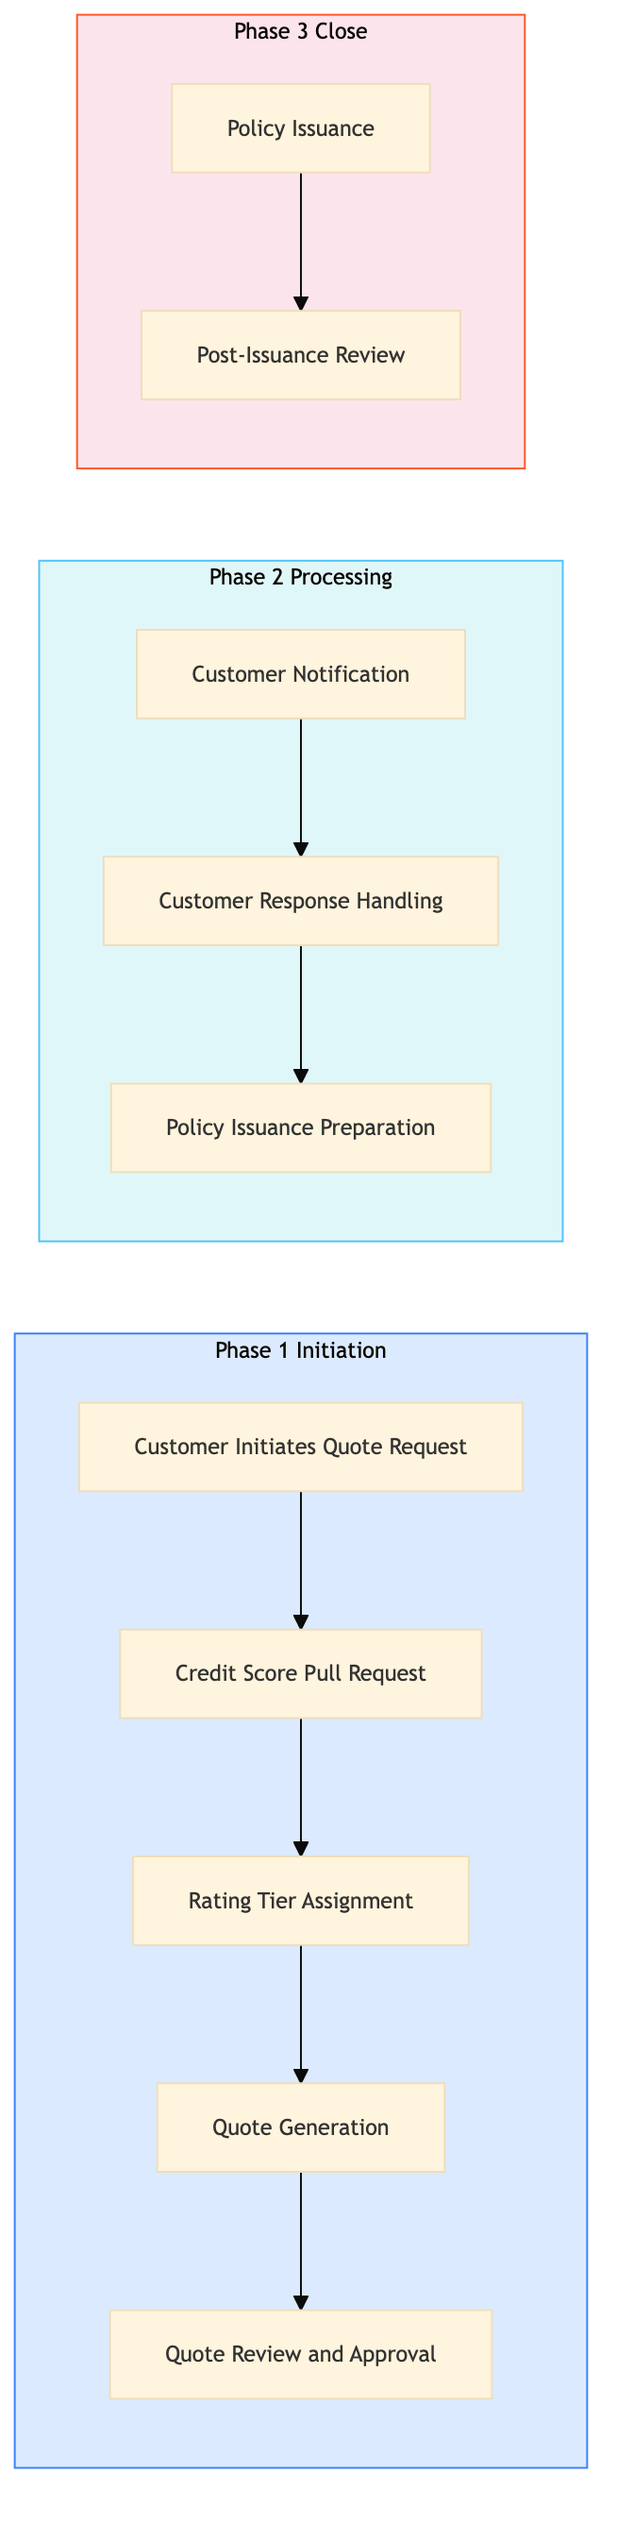
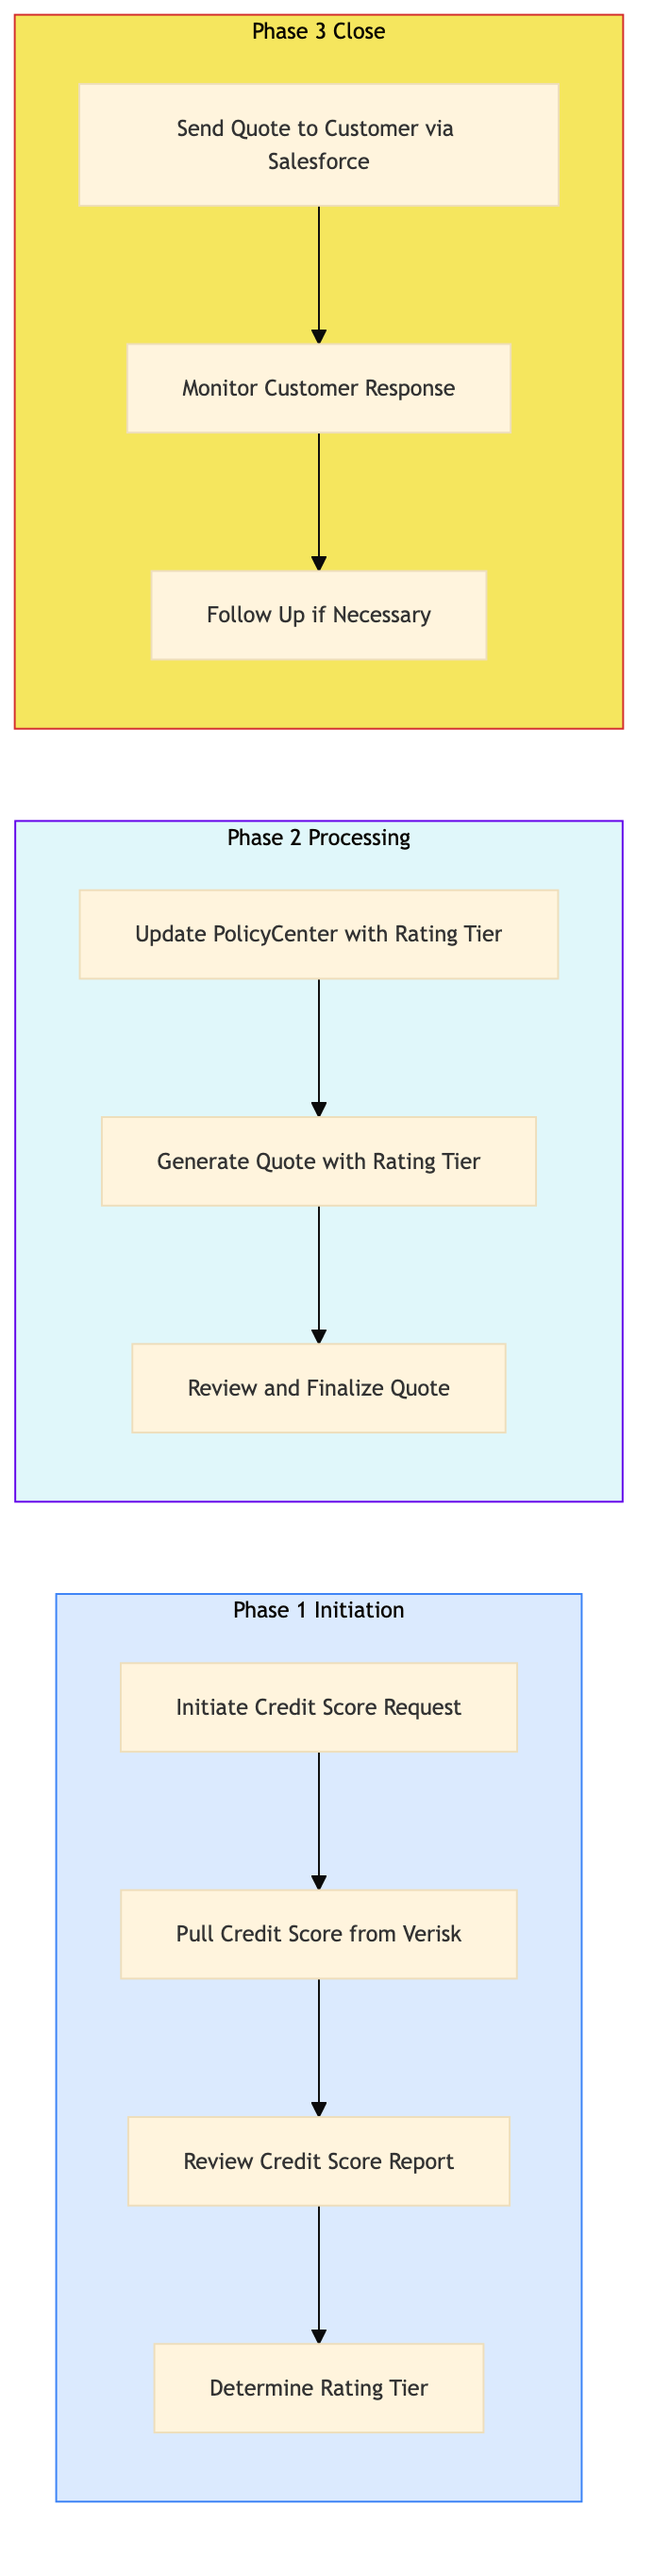
feat: add AAA-IN-QU-04 — Credit Score Pull and Rating Tier Assignment

diff --git a/aaa-insurance/insurance-quoting/aaa-in-qu-04.html b/aaa-insurance/insurance-quoting/aaa-in-qu-04.html
@@ -23,40 +23,16 @@
     <div class="nav-l2-group">
       <a class="nav-l2-title" href="../../shared-membership/membership-enrolment/index.html">Membership Enrolment & Sales</a>
       <div class="nav-l3-list">
-        <a class="nav-l3" href="../../shared-membership/membership-enrolment/shared-mb-en-01.html">SHARED-MB-EN-01 &mdash; New Member Walk-In Enrolment (Branch)</a>
-        <a class="nav-l3" href="../../shared-membership/membership-enrolment/shared-mb-en-02.html">SHARED-MB-EN-02 &mdash; Online Membership Self-Enrolment (Web/Ap</a>
-        <a class="nav-l3" href="../../shared-membership/membership-enrolment/shared-mb-en-03.html">SHARED-MB-EN-03 &mdash; Phone Enrolment via Contact Centre</a>
-        <a class="nav-l3" href="../../shared-membership/membership-enrolment/shared-mb-en-04.html">SHARED-MB-EN-04 &mdash; Affiliate and Employer Group Enrolment</a>
-        <a class="nav-l3" href="../../shared-membership/membership-enrolment/shared-mb-en-05.html">SHARED-MB-EN-05 &mdash; Membership Tier Selection and Upsell</a>
-        <a class="nav-l3" href="../../shared-membership/membership-enrolment/shared-mb-en-06.html">SHARED-MB-EN-06 &mdash; Payment Processing and First-Year Billin</a>
-        <a class="nav-l3" href="../../shared-membership/membership-enrolment/shared-mb-en-07.html">SHARED-MB-EN-07 &mdash; Welcome Kit and Digital Card Issuance</a>
-        <a class="nav-l3" href="../../shared-membership/membership-enrolment/shared-mb-en-08.html">SHARED-MB-EN-08 &mdash; Duplicate Member Detection and Merge</a>
       </div>
     </div>
     <div class="nav-l2-group">
       <a class="nav-l2-title" href="../../shared-membership/membership-renewal/index.html">Membership Renewal & Retention</a>
       <div class="nav-l3-list">
-        <a class="nav-l3" href="../../shared-membership/membership-renewal/shared-mb-rn-01.html">SHARED-MB-RN-01 &mdash; Annual Renewal Notice Generation and Dis</a>
-        <a class="nav-l3" href="../../shared-membership/membership-renewal/shared-mb-rn-02.html">SHARED-MB-RN-02 &mdash; Auto-Renewal Processing (Credit Card on </a>
-        <a class="nav-l3" href="../../shared-membership/membership-renewal/shared-mb-rn-03.html">SHARED-MB-RN-03 &mdash; Lapsed Member Reinstatement Campaign</a>
-        <a class="nav-l3" href="../../shared-membership/membership-renewal/shared-mb-rn-04.html">SHARED-MB-RN-04 &mdash; Membership Upgrade and Tier Change Proce</a>
-        <a class="nav-l3" href="../../shared-membership/membership-renewal/shared-mb-rn-05.html">SHARED-MB-RN-05 &mdash; Associate and Household Member Add-On Pr</a>
-        <a class="nav-l3" href="../../shared-membership/membership-renewal/shared-mb-rn-06.html">SHARED-MB-RN-06 &mdash; Cancellation Request Handling and Save O</a>
-        <a class="nav-l3" href="../../shared-membership/membership-renewal/shared-mb-rn-07.html">SHARED-MB-RN-07 &mdash; Renewal Rate Review and Pricing Update</a>
-        <a class="nav-l3" href="../../shared-membership/membership-renewal/shared-mb-rn-08.html">SHARED-MB-RN-08 &mdash; Membership Winback Campaign (12-36 Month</a>
       </div>
     </div>
     <div class="nav-l2-group">
       <a class="nav-l2-title" href="../../shared-membership/member-services/index.html">Member Services & Benefits</a>
       <div class="nav-l3-list">
-        <a class="nav-l3" href="../../shared-membership/member-services/shared-mb-sv-01.html">SHARED-MB-SV-01 &mdash; Member Discount Partner Redemption</a>
-        <a class="nav-l3" href="../../shared-membership/member-services/shared-mb-sv-02.html">SHARED-MB-SV-02 &mdash; Passport Photo Service Delivery (Branch)</a>
-        <a class="nav-l3" href="../../shared-membership/member-services/shared-mb-sv-03.html">SHARED-MB-SV-03 &mdash; International Driving Permit (IDP) Proce</a>
-        <a class="nav-l3" href="../../shared-membership/member-services/shared-mb-sv-04.html">SHARED-MB-SV-04 &mdash; Notary and Document Authentication Servi</a>
-        <a class="nav-l3" href="../../shared-membership/member-services/shared-mb-sv-05.html">SHARED-MB-SV-05 &mdash; Member Portal Profile and Preferences Ma</a>
-        <a class="nav-l3" href="../../shared-membership/member-services/shared-mb-sv-06.html">SHARED-MB-SV-06 &mdash; Lost and Stolen Membership Card Replacem</a>
-        <a class="nav-l3" href="../../shared-membership/member-services/shared-mb-sv-07.html">SHARED-MB-SV-07 &mdash; Member Data Privacy Request (CCPA and PI</a>
-        <a class="nav-l3" href="../../shared-membership/member-services/shared-mb-sv-08.html">SHARED-MB-SV-08 &mdash; Member Satisfaction Survey and NPS Track</a>
       </div>
     </div>
   </div>
@@ -281,7 +257,7 @@
           <span class="pid-badge org-badge-aaa">AAA</span>
           AAA-IN-QU-04 &mdash; Credit Score Pull and Rating Tier Assignment
         </h1>
-        <p>This process involves pulling credit scores and assigning rating tiers for AAA Northeast insurance quotes.</p>
+        <p>This process involves pulling a credit score and assigning a rating tier for AAA Northeast insurance quotes. It ensures accurate risk assessment and pricing.</p>
       </div>
 
       <!-- BPMN Diagram -->
@@ -307,10 +283,10 @@
             <tr><th>L1 Domain</th><td>AAA Insurance</td></tr>
             <tr><th>L2 Process</th><td>Quoting & Underwriting</td></tr>
             <tr><th>L3 Name</th><td>Credit Score Pull and Rating Tier Assignment</td></tr>
-            <tr><th>Trigger</th><td>A customer initiates a quote request through the AAA App or Salesforce portal.</td></tr>
-            <tr><th>Outcome</th><td>Successful completion results in a personalized quote with an assigned rating tier based on the customer's credit score.</td></tr>
-            <tr><th>Org Notes</th><td>AAA Northeast uses Verisk ISO ratings and Guidewire Cloud for underwriting, while CAA may use different systems and methodologies.</td></tr>
-            <tr><th>Systems</th><td><span class="sys-tag guidewire">Guidewire PolicyCenter</span> <span class="sys-tag verisk">Verisk ISO Rating</span> <span class="sys-tag salesforce">Salesforce</span> <span class="sys-tag aaa-app">AAA App</span></td></tr>
+            <tr><th>Trigger</th><td>Initiated by a Licensed Insurance Agent upon customer inquiry or quote request.</td></tr>
+            <tr><th>Outcome</th><td>Successful completion results in the assignment of a credit-based rating tier, which influences premium calculation and policy terms.</td></tr>
+            <tr><th>Org Notes</th><td>AAA Northeast may have specific underwriting guidelines that differ from other AAA regions, impacting the credit score pull and rating tier assignment process.</td></tr>
+            <tr><th>Systems</th><td><span class="sys-tag guidewire">Guidewire PolicyCenter</span> <span class="sys-tag verisk">Verisk ISO rating</span> <span class="sys-tag salesforce">Salesforce</span></td></tr>
           </table>
         </div>
       </div>
@@ -331,123 +307,123 @@
               <tbody>
         <tr>
           <td class="step-num">1.1</td>
-          <td>Customer Initiates Quote Request</td>
+          <td>Initiate Credit Score Request</td>
           <td>Licensed Insurance Agent</td>
-          <td><span class="sys-tag salesforce">AAA App / Salesforce</span></td>
-          <td>Customer's personal information and vehicle details</td>
-          <td>Quote request in Guidewire PolicyCenter</td>
-          <td>Time to initiate quote < 2 minutes</td>
-          <td>High volume of requests during peak times</td>
+          <td><span class="sys-tag guidewire">Guidewire PolicyCenter</span></td>
+          <td>Customer application data</td>
+          <td>Credit score request generated</td>
+          <td>Time to initiate credit score request < 5 minutes</td>
+          <td>Delays in initiating the credit score request can lead to longer quote processing times.</td>
           <td>N</td>
           <td><span class="exception-y">Y</span></td>
         </tr>
         <tr>
           <td class="step-num">1.2</td>
-          <td>Credit Score Pull Request</td>
-          <td>Underwriter</td>
-          <td><span class="sys-tag verisk">Verisk ISO Rating</span></td>
-          <td>Customer's personal information</td>
+          <td>Pull Credit Score from Verisk</td>
+          <td>Credit Analyst</td>
+          <td><span class="sys-tag verisk">Verisk ISO rating</span></td>
+          <td>Customer application data</td>
           <td>Credit score report</td>
-          <td>Credit score pull time < 5 minutes</td>
-          <td>Inaccurate or delayed credit scores</td>
+          <td>Credit score retrieval time < 30 seconds</td>
+          <td>Inaccurate or delayed credit scores can affect underwriting decisions.</td>
           <td>N</td>
           <td><span class="exception-y">Y</span></td>
         </tr>
         <tr>
           <td class="step-num">1.3</td>
-          <td>Rating Tier Assignment</td>
-          <td>Underwriter</td>
+          <td>Review Credit Score Report</td>
+          <td>Credit Analyst</td>
           <td><span class="sys-tag guidewire">Guidewire PolicyCenter</span></td>
           <td>Credit score report</td>
-          <td>Assigned rating tier</td>
-          <td>Time to assign rating < 2 minutes</td>
-          <td>Manual adjustments for complex cases</td>
+          <td>Credit score analysis</td>
+          <td>Time to review credit score < 2 minutes</td>
+          <td>Misinterpretation of credit scores can lead to incorrect rating tiers.</td>
           <td>N</td>
           <td><span class="exception-y">Y</span></td>
         </tr>
         <tr>
           <td class="step-num">1.4</td>
-          <td>Quote Generation</td>
-          <td>Underwriter</td>
+          <td>Determine Rating Tier</td>
+          <td>Credit Analyst</td>
           <td><span class="sys-tag guidewire">Guidewire PolicyCenter</span></td>
-          <td>Assigned rating tier and customer details</td>
-          <td>Personalized insurance quote</td>
-          <td>Time to generate quote < 3 minutes</td>
-          <td>Inconsistent pricing across different scenarios</td>
+          <td>Credit score analysis</td>
+          <td>Rating tier assignment</td>
+          <td>Accuracy of rating tier assignment > 95%</td>
+          <td>Incorrect rating tiers can impact customer satisfaction and profitability.</td>
           <td>N</td>
           <td><span class="exception-y">Y</span></td>
         </tr>
         <tr>
-          <td class="step-num">1.5</td>
-          <td>Quote Review and Approval</td>
-          <td>Senior Underwriter</td>
-          <td><span class="sys-tag guidewire">Guidewire PolicyCenter</span></td>
-          <td>Personalized insurance quote</td>
-          <td>Approved quote</td>
-          <td>Time to review and approve < 10 minutes</td>
-          <td>High rejection rates due to complex cases</td>
-          <td><span class="decision-y">Y</span></td>
-          <td>N</td>
-        </tr>
-        <tr>
           <td class="step-num">2.1</td>
-          <td>Customer Notification</td>
-          <td>Licensed Insurance Agent</td>
-          <td><span class="sys-tag salesforce">Salesforce / AAA App</span></td>
-          <td>Approved quote</td>
-          <td>Notification sent to customer</td>
-          <td>Time to notify < 5 minutes</td>
-          <td>Customer notification failures</td>
+          <td>Update PolicyCenter with Rating Tier</td>
+          <td>Credit Analyst</td>
+          <td><span class="sys-tag guidewire">Guidewire PolicyCenter</span></td>
+          <td>Rating tier assignment</td>
+          <td>Updated policy record</td>
+          <td>Time to update PolicyCenter < 2 minutes</td>
+          <td>Delays in updating the system can cause discrepancies in quote generation.</td>
           <td>N</td>
           <td><span class="exception-y">Y</span></td>
         </tr>
         <tr>
           <td class="step-num">2.2</td>
-          <td>Customer Response Handling</td>
+          <td>Generate Quote with Rating Tier</td>
           <td>Licensed Insurance Agent</td>
-          <td><span class="sys-tag salesforce">Salesforce / AAA App</span></td>
-          <td>Customer's response to the quote</td>
-          <td>Response recorded in Salesforce</td>
-          <td>Time to handle response < 2 minutes</td>
-          <td>High volume of customer inquiries</td>
-          <td><span class="decision-y">Y</span></td>
+          <td><span class="sys-tag guidewire">Guidewire PolicyCenter</span></td>
+          <td>Updated policy record</td>
+          <td>Insurance quote</td>
+          <td>Time to generate quote < 5 minutes</td>
+          <td>Slow quote generation can lead to customer dissatisfaction.</td>
           <td>N</td>
+          <td><span class="exception-y">Y</span></td>
         </tr>
         <tr>
           <td class="step-num">2.3</td>
-          <td>Policy Issuance Preparation</td>
-          <td>Underwriter</td>
+          <td>Review and Finalize Quote</td>
+          <td>Licensed Insurance Agent</td>
           <td><span class="sys-tag guidewire">Guidewire PolicyCenter</span></td>
-          <td>Approved quote and customer response</td>
-          <td>Policy issuance preparation document</td>
-          <td>Time to prepare < 5 minutes</td>
-          <td>Errors in policy documents</td>
+          <td>Insurance quote</td>
+          <td>Finalized insurance quote</td>
+          <td>Time to review and finalize quote < 1 minute</td>
+          <td>Errors in the finalized quote can lead to customer complaints.</td>
           <td>N</td>
           <td><span class="exception-y">Y</span></td>
         </tr>
         <tr>
           <td class="step-num">3.1</td>
-          <td>Policy Issuance</td>
-          <td>Underwriter</td>
-          <td><span class="sys-tag guidewire">Guidewire PolicyCenter</span></td>
-          <td>Policy issuance preparation document</td>
-          <td>Issued policy</td>
-          <td>Time to issue < 2 minutes</td>
-          <td>Delays in policy issuance</td>
+          <td>Send Quote to Customer via Salesforce</td>
+          <td>Licensed Insurance Agent</td>
+          <td><span class="sys-tag salesforce">Salesforce</span></td>
+          <td>Finalized insurance quote</td>
+          <td>Quote sent to customer</td>
+          <td>Time to send quote < 2 minutes</td>
+          <td>Failed quote deliveries can result in lost sales opportunities.</td>
           <td>N</td>
           <td><span class="exception-y">Y</span></td>
         </tr>
         <tr>
           <td class="step-num">3.2</td>
-          <td>Post-Issuance Review</td>
-          <td>Senior Underwriter</td>
-          <td><span class="sys-tag guidewire">Guidewire PolicyCenter</span></td>
-          <td>Issued policy</td>
-          <td>Review report</td>
-          <td>Time to review < 10 minutes</td>
-          <td>Inconsistent policy issuance practices</td>
+          <td>Monitor Customer Response</td>
+          <td>Licensed Insurance Agent</td>
+          <td><span class="sys-tag salesforce">Salesforce</span></td>
+          <td>Customer response</td>
+          <td>Response recorded</td>
+          <td>Customer response rate > 80%</td>
+          <td>Low customer response rates can impact sales performance.</td>
           <td><span class="decision-y">Y</span></td>
           <td>N</td>
+        </tr>
+        <tr>
+          <td class="step-num">3.3</td>
+          <td>Follow Up if Necessary</td>
+          <td>Licensed Insurance Agent</td>
+          <td><span class="sys-tag salesforce">Salesforce</span></td>
+          <td>Customer response</td>
+          <td>Follow-up communication</td>
+          <td>Follow-up rate > 90%</td>
+          <td>Inadequate follow-ups can lead to lost customers.</td>
+          <td>N</td>
+          <td><span class="exception-y">Y</span></td>
         </tr>
               </tbody>
             </table>
@@ -460,9 +436,9 @@
         <div class="card-header">&#x1F4CA; KPIs &amp; Risk Register</div>
         <div class="card-body">
           <p class="mb-8"><strong>KPIs</strong></p>
-          <div class="kpi-list mb-8"><span class="kpi-pill">Time to initiate quote < 2 minutes</span> <span class="kpi-pill">Credit score pull time < 5 minutes</span> <span class="kpi-pill">Time to assign rating < 2 minutes</span> <span class="kpi-pill">Time to generate quote < 3 minutes</span> <span class="kpi-pill">Time to review and approve < 10 minutes</span></div>
+          <div class="kpi-list mb-8"><span class="kpi-pill">Time to initiate credit score request < 5 minutes</span> <span class="kpi-pill">Credit score retrieval time < 30 seconds</span> <span class="kpi-pill">Accuracy of rating tier assignment > 95%</span> <span class="kpi-pill">Time to update PolicyCenter < 2 minutes</span> <span class="kpi-pill">Time to generate quote < 5 minutes</span></div>
           <p class="mb-8" style="margin-top:16px"><strong>Key Risks</strong></p>
-          <div class="kpi-list"><span class="risk-pill">Inaccurate or delayed credit scores</span> <span class="risk-pill">Manual adjustments for complex cases</span> <span class="risk-pill">High rejection rates due to complex cases</span> <span class="risk-pill">Customer notification failures</span> <span class="risk-pill">Errors in policy documents</span> <span class="risk-pill">Delays in policy issuance</span></div>
+          <div class="kpi-list"><span class="risk-pill">Delays in initiating the credit score request</span> <span class="risk-pill">Inaccurate or delayed credit scores</span> <span class="risk-pill">Misinterpretation of credit scores</span> <span class="risk-pill">Incorrect rating tiers</span> <span class="risk-pill">Slow quote generation</span></div>
         </div>
       </div>
 

diff --git a/aaa-insurance/insurance-quoting/index.html b/aaa-insurance/insurance-quoting/index.html
@@ -43,6 +43,7 @@
       <div class="nav-l3-list">
         <a class="nav-l3" href="../../aaa-insurance/insurance-quoting/aaa-in-qu-01.html">AAA-IN-QU-01 &mdash; Auto Insurance Quote Initiation (Web and</a>
         <a class="nav-l3" href="../../aaa-insurance/insurance-quoting/aaa-in-qu-02.html">AAA-IN-QU-02 &mdash; Driver and Vehicle Information Capture</a>
+        <a class="nav-l3" href="../../aaa-insurance/insurance-quoting/aaa-in-qu-03.html">AAA-IN-QU-03 &mdash; MVR Pull and Scoring</a>
       </div>
     </div>
     <div class="nav-l2-group">
@@ -249,7 +250,7 @@
           <a href="../index.html">AAA Insurance</a>
         </div>
         <h1>🛡 Quoting & Underwriting</h1>
-        <p>2 of 10 processes complete</p>
+        <p>3 of 10 processes complete</p>
       </div>
       <div class="card">
         <div class="card-header">Process List</div>
@@ -258,7 +259,7 @@
             <thead><tr><th>PID</th><th>L3 Process Name</th><th>Status</th></tr></thead>
             <tbody><tr><td><a href="aaa-in-qu-01.html">AAA-IN-QU-01</a></td><td>Auto Insurance Quote Initiation (Web and Agent and Phone)</td><td><span style="color:#16a34a;font-weight:700">&#x2705; Complete</span></td></tr>
 <tr><td><a href="aaa-in-qu-02.html">AAA-IN-QU-02</a></td><td>Driver and Vehicle Information Capture</td><td><span style="color:#16a34a;font-weight:700">&#x2705; Complete</span></td></tr>
-<tr><td>AAA-IN-QU-03</td><td>MVR Pull and Scoring</td><td><span style="color:#94a3b8">&#x23F3; Queued</span></td></tr>
+<tr><td><a href="aaa-in-qu-03.html">AAA-IN-QU-03</a></td><td>MVR Pull and Scoring</td><td><span style="color:#16a34a;font-weight:700">&#x2705; Complete</span></td></tr>
 <tr><td>AAA-IN-QU-04</td><td>Credit Score Pull and Rating Tier Assignment</td><td><span style="color:#94a3b8">&#x23F3; Queued</span></td></tr>
 <tr><td>AAA-IN-QU-05</td><td>ISO Rating Engine Calculation</td><td><span style="color:#94a3b8">&#x23F3; Queued</span></td></tr>
 <tr><td>AAA-IN-QU-06</td><td>Policy Comparison and Coverage Options Presentation</td><td><span style="color:#94a3b8">&#x23F3; Queued</span></td></tr>

diff --git a/index.html b/index.html
@@ -43,6 +43,7 @@
       <div class="nav-l3-list">
         <a class="nav-l3" href="aaa-insurance/insurance-quoting/aaa-in-qu-01.html">AAA-IN-QU-01 &mdash; Auto Insurance Quote Initiation (Web and</a>
         <a class="nav-l3" href="aaa-insurance/insurance-quoting/aaa-in-qu-02.html">AAA-IN-QU-02 &mdash; Driver and Vehicle Information Capture</a>
+        <a class="nav-l3" href="aaa-insurance/insurance-quoting/aaa-in-qu-03.html">AAA-IN-QU-03 &mdash; MVR Pull and Scoring</a>
       </div>
     </div>
     <div class="nav-l2-group">
@@ -249,9 +250,9 @@
       </div>
 
       <div class="stats-bar">
-        <div class="stat-card"><div class="stat-num">2</div><div class="stat-label">Processes Complete</div></div>
+        <div class="stat-card"><div class="stat-num">3</div><div class="stat-label">Processes Complete</div></div>
         <div class="stat-card"><div class="stat-num">268</div><div class="stat-label">Total Processes</div></div>
-        <div class="stat-card"><div class="stat-num">2</div><div class="stat-label">AAA Complete</div></div>
+        <div class="stat-card"><div class="stat-num">3</div><div class="stat-label">AAA Complete</div></div>
         <div class="stat-card"><div class="stat-num caa-red">0</div><div class="stat-label">CAA Complete</div></div>
         <div class="stat-card"><div class="stat-num">0</div><div class="stat-label">Shared Complete</div></div>
       </div>
@@ -271,7 +272,7 @@
         <span class="nav-org-dot aaa" style="display:inline-block;margin-right:4px"></span>
         AAA
       </p>
-      <p class="card-count">2 / 34 processes complete</p>
+      <p class="card-count">3 / 34 processes complete</p>
     </div>
     <div class="domain-card org-caa">
       <h3><a href="caa-insurance/index.html">🍁 CAA Insurance (Ontario)</a></h3>

diff --git a/aaa-insurance/index.html b/aaa-insurance/index.html
@@ -43,6 +43,7 @@
       <div class="nav-l3-list">
         <a class="nav-l3" href="../aaa-insurance/insurance-quoting/aaa-in-qu-01.html">AAA-IN-QU-01 &mdash; Auto Insurance Quote Initiation (Web and</a>
         <a class="nav-l3" href="../aaa-insurance/insurance-quoting/aaa-in-qu-02.html">AAA-IN-QU-02 &mdash; Driver and Vehicle Information Capture</a>
+        <a class="nav-l3" href="../aaa-insurance/insurance-quoting/aaa-in-qu-03.html">AAA-IN-QU-03 &mdash; MVR Pull and Scoring</a>
       </div>
     </div>
     <div class="nav-l2-group">
@@ -246,11 +247,11 @@
       <div class="page-header">
         <div class="breadcrumb"><a href="../index.html">Home</a></div>
         <h1>🛡 AAA Insurance</h1>
-        <p>2 of 34 processes complete across 4 process groups</p>
+        <p>3 of 34 processes complete across 4 process groups</p>
       </div>
       <div class="domain-grid">    <div class="domain-card org-aaa">
       <h3><a href="insurance-quoting/index.html">Quoting & Underwriting</a></h3>
-      <p class="card-meta">2/10 processes complete</p>
+      <p class="card-meta">3/10 processes complete</p>
     </div>
     <div class="domain-card org-aaa">
       <h3><a href="policy-administration/index.html">Policy Administration</a></h3>
